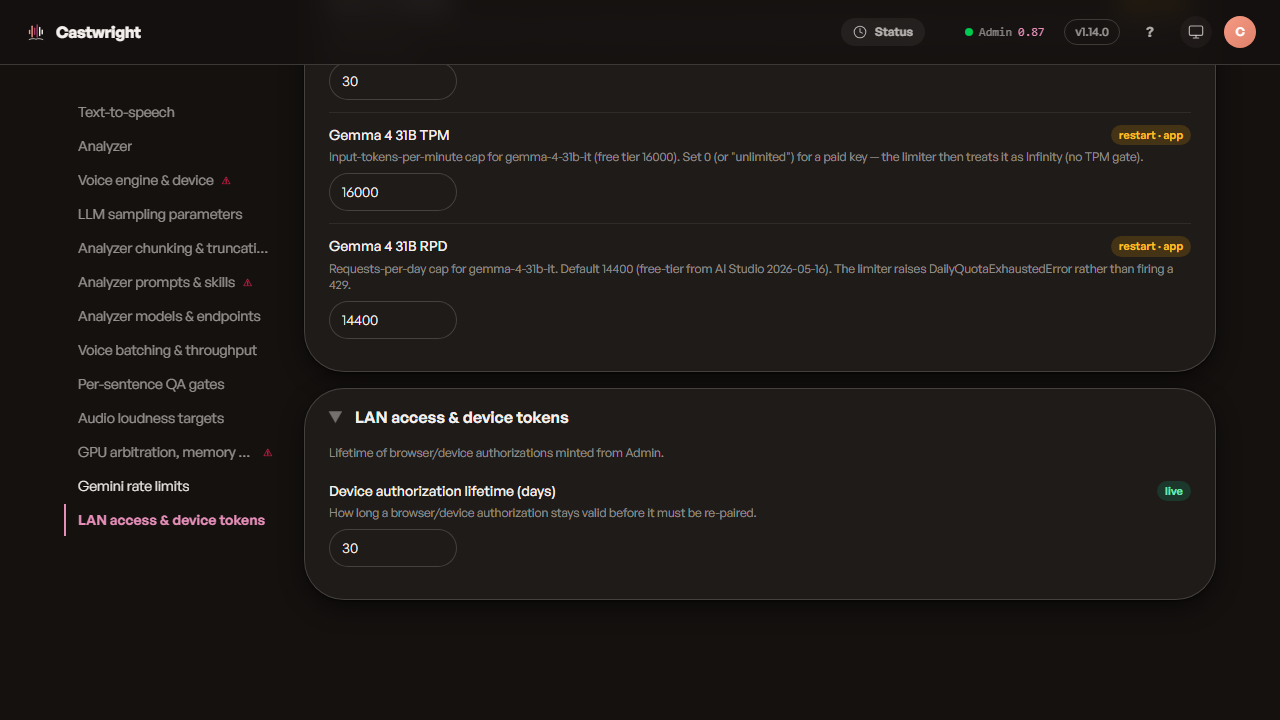
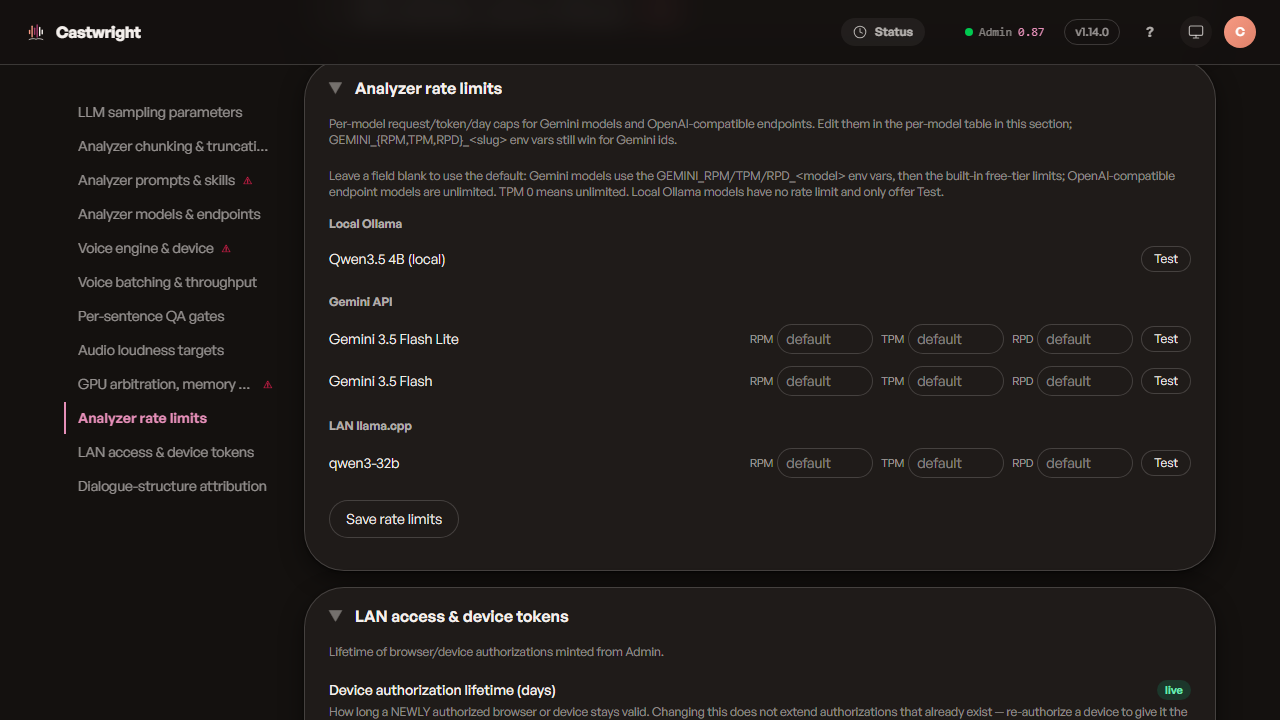
test(e2e): retarget the rate-limits capture scene and recapture wiki images (#3570)
Review pass 1 finding #3.

diff --git a/e2e/marketing/scenes.ts b/e2e/marketing/scenes.ts
@@ -612,13 +612,54 @@ export const SCENES: Scene[] = [
     hash: '#/advanced',
     viewports: ['desktop'],
     action: async (page) => {
+      // The default mock catalog has no Gemini key, so only a Local Ollama model shows
+      // and the table has no RPM/TPM/RPD inputs. Seed a representative catalog (mock
+      // hook: api.ts __SEED_ANALYZER_CATALOG__) and reload so the editor fetches it.
+      await page.addInitScript(() => {
+        const entry = (id: string, label: string, engine: string, mode: string) => ({
+          id,
+          label,
+          engine,
+          model: label,
+          structuredOutput: { mode, dropped: [], label: mode === 'json' ? 'JSON mode' : 'Schema' },
+          testPlan: { configured: 2, all: 3, attempts: engine === 'local' ? 1 : 3 },
+        });
+        (globalThis as unknown as Record<string, unknown>).__SEED_ANALYZER_CATALOG__ = {
+          groups: [
+            { kind: 'ollama', id: 'ollama', label: 'Local Ollama', status: 'ok', models: [entry('qwen3.5:4b', 'Qwen3.5 4B (local)', 'local', 'schema')] },
+            {
+              kind: 'gemini',
+              id: 'gemini',
+              label: 'Gemini API',
+              status: 'ok',
+              models: [
+                entry('gemini-3.5-flash-lite', 'Gemini 3.5 Flash Lite', 'gemini', 'json'),
+                entry('gemini-3.5-flash', 'Gemini 3.5 Flash', 'gemini', 'json'),
+              ],
+            },
+            { kind: 'endpoint', id: 'lan-llama', label: 'LAN llama.cpp', status: 'ok', models: [entry('openai:lan-llama::qwen3-32b', 'qwen3-32b', 'openai', 'schema')] },
+          ],
+        };
+      });
+      await page.reload();
       await page
         .getByRole('navigation', { name: 'Settings sections' })
-        .getByText('Gemini rate limits', { exact: true })
+        .getByText('Analyzer rate limits', { exact: true })
         .click({ timeout: 5000 });
+      // The editor fetches the analyzer catalog on mount; wait for its per-model
+      // rows so the scroll below frames the settled layout, not the empty shell.
+      await page.waitForSelector('[data-testid^="model-limits-row-"]', { timeout: 10_000 });
+      // This group sits above two more sections that together are shorter than half a
+      // viewport, so the page bottoms out before the editor can be centred; pad the
+      // end of the page so scrollTo can frame it.
+      await page.addStyleTag({ content: 'body { padding-bottom: 100vh; }' });
+      await page.waitForTimeout(1000);
     },
-    waitForAfterAction: 'text=Gemma 4 31B RPM',
-    scrollTo: 'text=Gemma 4 31B RPM',
+    // #3084 W3c retired the six rate.*.gemma* knobs (and "Gemini rate limits") into
+    // the per-model AnalyzerModelLimits editor — "Save rate limits" is its one
+    // stable, unique anchor regardless of which models happen to be in the catalog.
+    waitForAfterAction: 'text=Save rate limits',
+    scrollTo: '[data-testid="analyzer-model-limits"]',
     strict: true,
   },
   {
